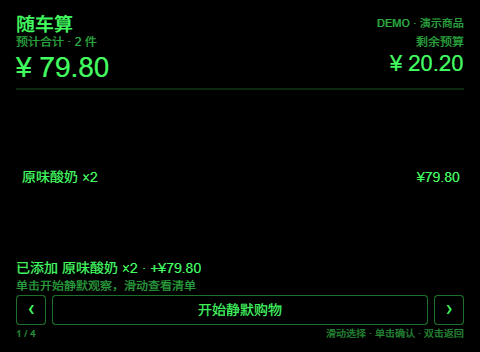
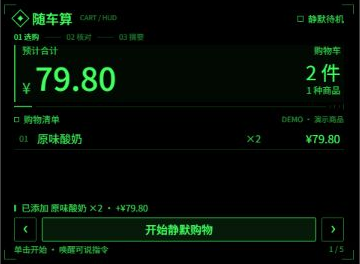
Show Studio shopping screenshots and product price-label matching

diff --git a/README.md b/README.md
@@ -15,10 +15,12 @@
 ## 核心体验
 
 1. **开始购物**：用户主动开启静默购物，眼镜显示当前清单。
-2. **查看金额**：抬眼查看商品、件数和预计合计。
+2. **自动记录**：取放、商品、数量和价格明确时自动更新清单，抬眼查看件数与预计合计。
 3. **处理疑问**：商品、数量或价格不明确时显示核对卡片，由用户确认或修改。
 4. **随时修正**：支持退回商品、调整数量、修改单价和撤销操作。
 5. **按需说话**：主动唤醒后说出购物指令，处理完成后继续此前的静默观察。明确暂停时保持暂停。
+
+结束购物后保存本次摘要，可继续修改或开始下一次购物，并保留最近 10 次记录。
 
 预算是可选辅助功能，默认不设置。用户需要时可以主动开启、调整或关闭，不影响清单和合计的使用。
 
@@ -26,20 +28,39 @@
 
 ## 界面展示
 
-以下为 AIUI Studio 实际运行画面，仅展示眼镜 HUD。演示商品与金额用于说明交互，不代表真实门店识别结果或佩戴实拍。
+以下均为 AIUI Studio「模拟调试」的实际截图，仅裁出眼镜 HUD。演示商品用于验证界面与计价流程，不代表门店识别或佩戴实拍。
 
-<img src="assets/hud-cart.png" alt="随车算眼镜 HUD 显示商品清单和预计合计" width="480" />
+| 开始购物 | 商品核对 |
+| --- | --- |
+| <img src="assets/hud-start.png" alt="默认无预算，开始购物" width="360" /> | <img src="assets/hud-review.png" alt="两件酸奶待确认，合计仍为零" width="360" /> |
+| 默认不设置预算，显示清单与件数。 | 演示核对卡：2 件酸奶，确认前合计仍为 0。 |
 
-图中为开启预算时的演示状态：2 件酸奶合计 79.80 元。预算可不设置，默认显示清单与件数；界面样式仍在迭代。
+| 入账后的清单 | 结束购物摘要 |
+| --- | --- |
+| <img src="assets/hud-cart.png" alt="两件酸奶已加入，合计79.80元" width="360" /> | <img src="assets/hud-receipt.png" alt="本次购物摘要已保存" width="360" /> |
+| 确认后显示 2 件，合计 79.80 元。 | 结束购物后保存摘要，可查看明细或开始下一次。 |
 
-清单将商品、件数和金额分层呈现；核对卡片只在需要处理时出现。镜腿操作支持选择、确认与返回，语音作为可选入口。
+真实购物以静默自动记录为主：取放过程、商品、数量与价格都明确时直接入账；只有不确定时才显示核对卡。数量不明确时可说“两件”或用手势补充，再确认；手动编辑保留为备用入口。
+
+## 商品与价签对应
+
+先辨认正在拿取的包装，再核对对应价签，不能将附近数字直接当作商品价格。
+
+- **包装身份**：读取品牌、品名、口味或型号，以及完整销售包装规格。
+- **价签对应**：核对价签标题与规格，区分相邻商品、同名不同规格和单个／整包。
+- **价格栏目**：分别读取普通售价、会员价、促销价及单位价。优惠条件不明时不自动采用优惠价格；每公斤或每小份单价不作为整包总价。
+- **不确定时补充**：多个价签都可能匹配、文字遮挡或规格不一致时保留待核价，请用户拍清包装与对应价签，或直接补充单价。
+
+已实现上述字段与对应关系的校验逻辑。真实货架中的包装识别、文字读取和连续跟踪效果仍需实机素材验证。
 
 ## 开发进展
 
 | 内容 | 当前状态 |
 | --- | --- |
 | 购物清单与计价 | 已实现添加、退回、数量和单价修改、优惠计算、撤销与本地恢复 |
-| HUD 与镜腿交互 | 已在官方模拟环境运行，正在优化版式与操作流程 |
+| HUD 与镜腿交互 | 已在 Studio 验证商品核对、数量修改、入账与结束摘要 |
+| 点头确认 | 已接入姿态校准及商品核对确认，真实佩戴待测 |
+| 语音与手势数量 | 已接入候选数量修改，手势图像识别待实机验证 |
 | 静默与语音切换 | 已完成逻辑实现及自动化测试，真机唤醒体验待验证 |
 | 摄像头辅助购物 | 已完成原型接入，连续购物场景的识别效果尚待实机测试 |
 | 新款 Rokid Ring | 计划探索无声交互，适配取决于官方接口与实机条件 |
@@ -57,7 +78,7 @@
 
 静默购物由用户主动开启。静默期间不打开应用麦克风，也不播放语音；用户主动唤醒后才进入语音操作。暂停或离开页面时停止应用采集。
 
-图像分析使用宿主配置的模型服务，应用不保存所采集的照片。购物清单保存在本地。真实使用时的权限与服务行为将在样机测试中核对。
+图像分析使用宿主配置的模型服务，应用不保存所采集的照片。购物清单保存在本地。真实使用时的权限与服务行为将在设备测试中核对。
 
 ---
 
